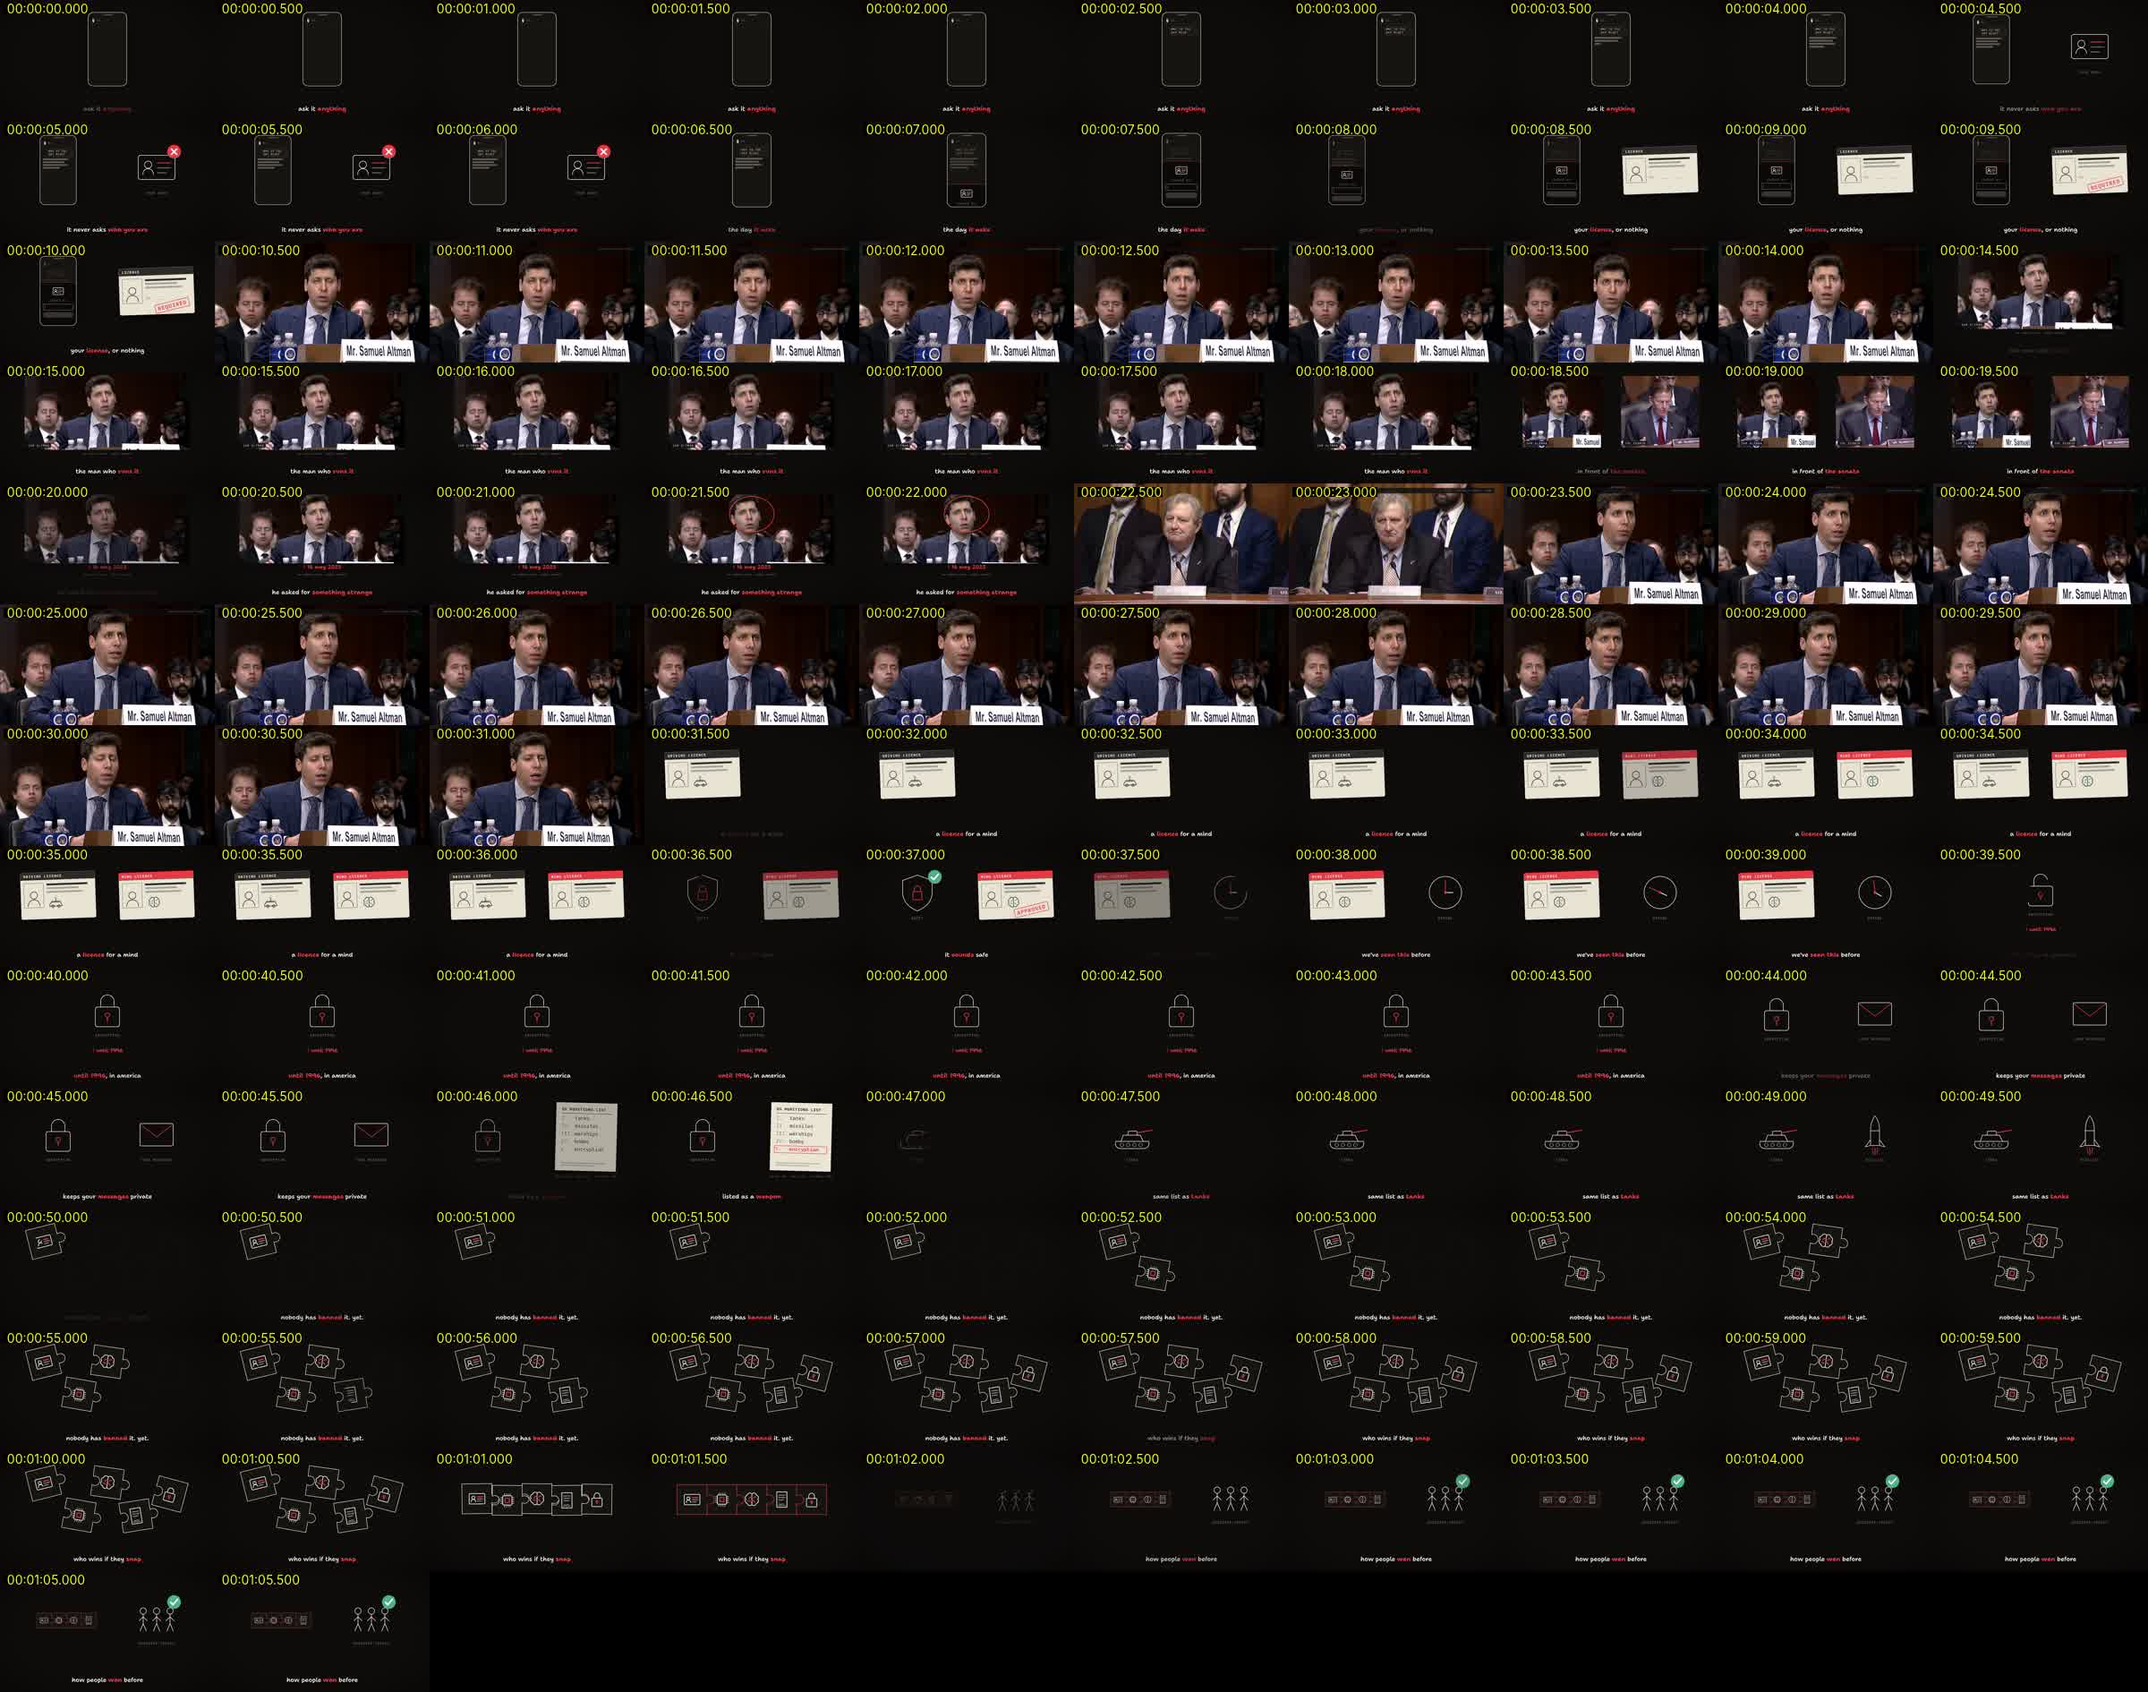
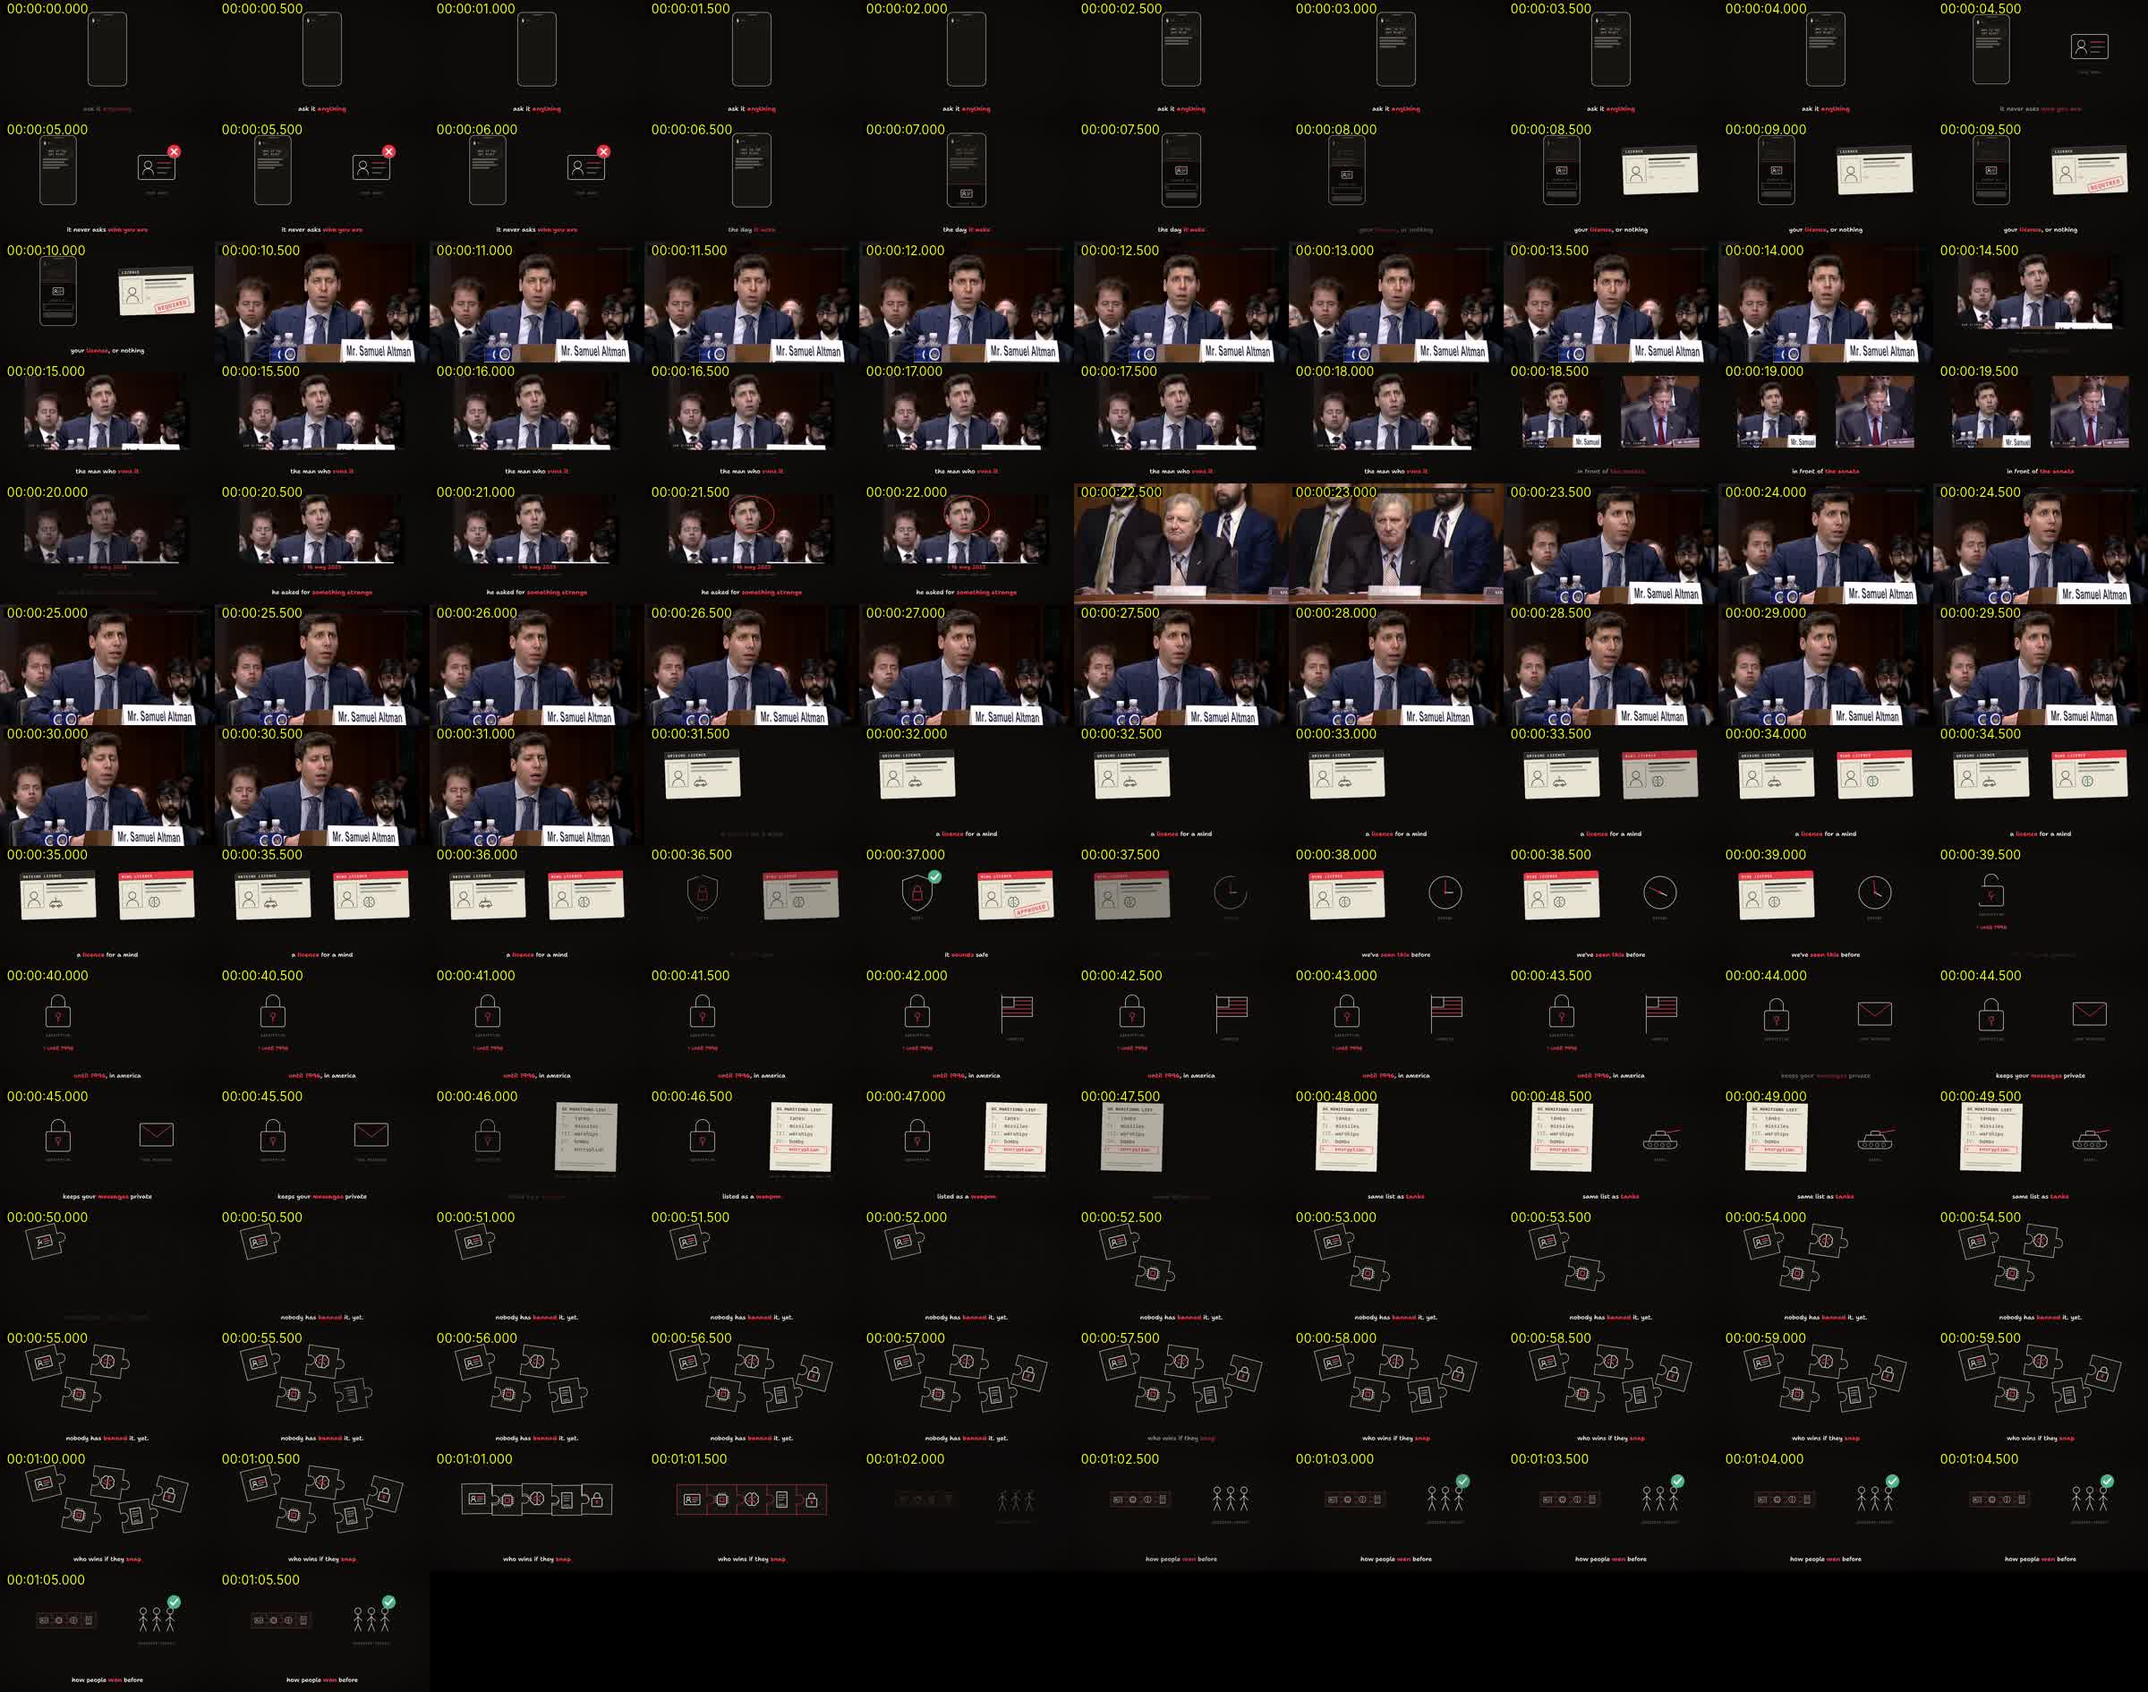
ai-ban: 1-min sample delivered (All-in_ai_ban_sample.mp4, watch.py 0 FAIL); HANDOVER
Claude-Session: https://claude.ai/code/session_01DmXD9JHUJGugzc4Catjnb6

diff --git a/HANDOVER.md b/HANDOVER.md
@@ -4,8 +4,8 @@ grep and small scripts, never print whole transcripts or logs). Never read SCRAT
 
 ## NOW (2026-10-11): "THE COMING AI BAN" (slug `ai-ban`) · 1-min sample DELIVERED · NEXT: owner's notes → full film
 - Sample = act 1 of narration v1 (SCRIPT.md), 7 beats + 2 clips, 143 words, 1:06. `videos/ai-ban/gen_script.py`
-  (ORDER h00 h01 c01 h02 c02 h03 h04 h05 h06), out `videos/ai-ban/out/ai-ban_v1.mp4`, sent as `All-in_ai_ban_sample.mp4`.
-  Lints 0 FAIL, watch.py result in the commit message / below. Stills: `videos/ai-ban/qa/sheet_h00_h06.jpg`.
+  (ORDER h00 h01 c01 h02 c02 h03 h04 h05 h06), out `videos/ai-ban/out/ai-ban_v2.mp4`, sent as `All-in_ai_ban_sample.mp4` (16.9 MB, crf 21).
+  Lints 0 FAIL, watch.py 0 FAIL (v2 fixed v1's lone 4.5 s padlock and 1 s munitions list). Stills: `videos/ai-ban/qa/sheet_h00_h06.jpg`.
 - Clips: the Senate's OWN hearing video (US gov, PD): c01 "I think if this technology goes wrong, it can go quite
   wrong." (hook, at 0:10), c02 "Number one, I would form a new agency that licenses any effort above a certain scale of
   capabilities and can take that license away and ensure compliance with safety standards." `LICENCES.md` has stream
